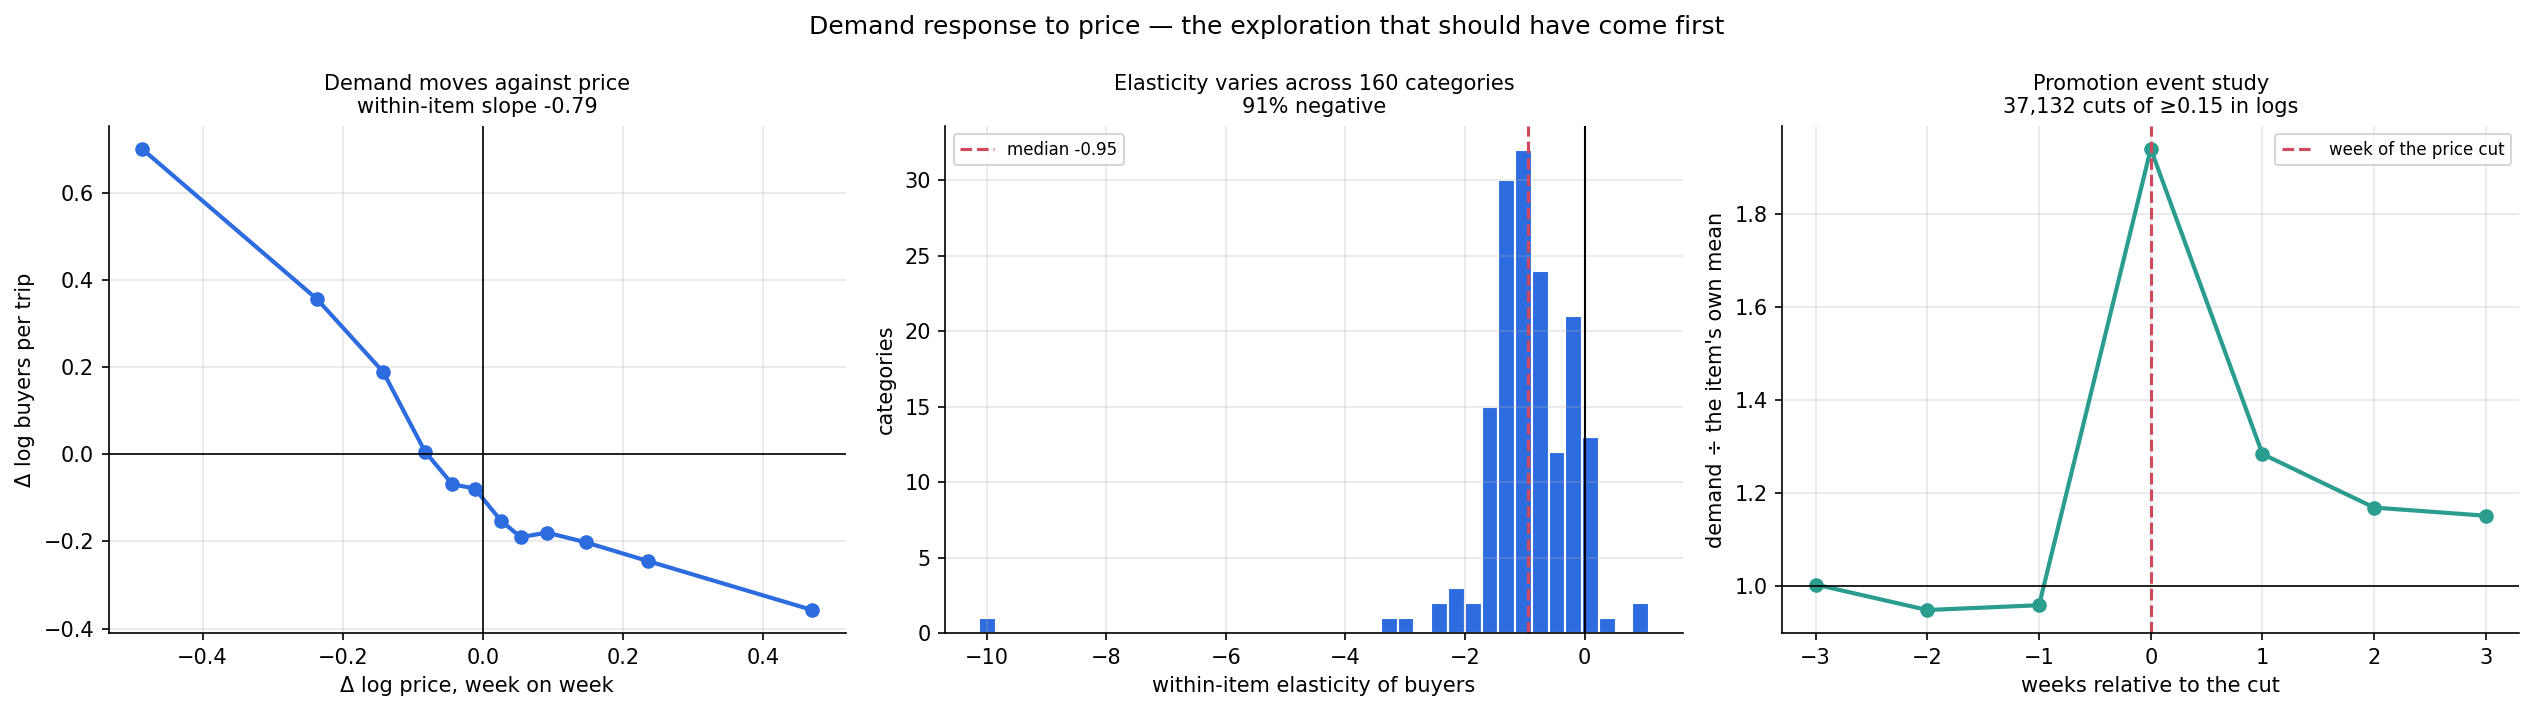
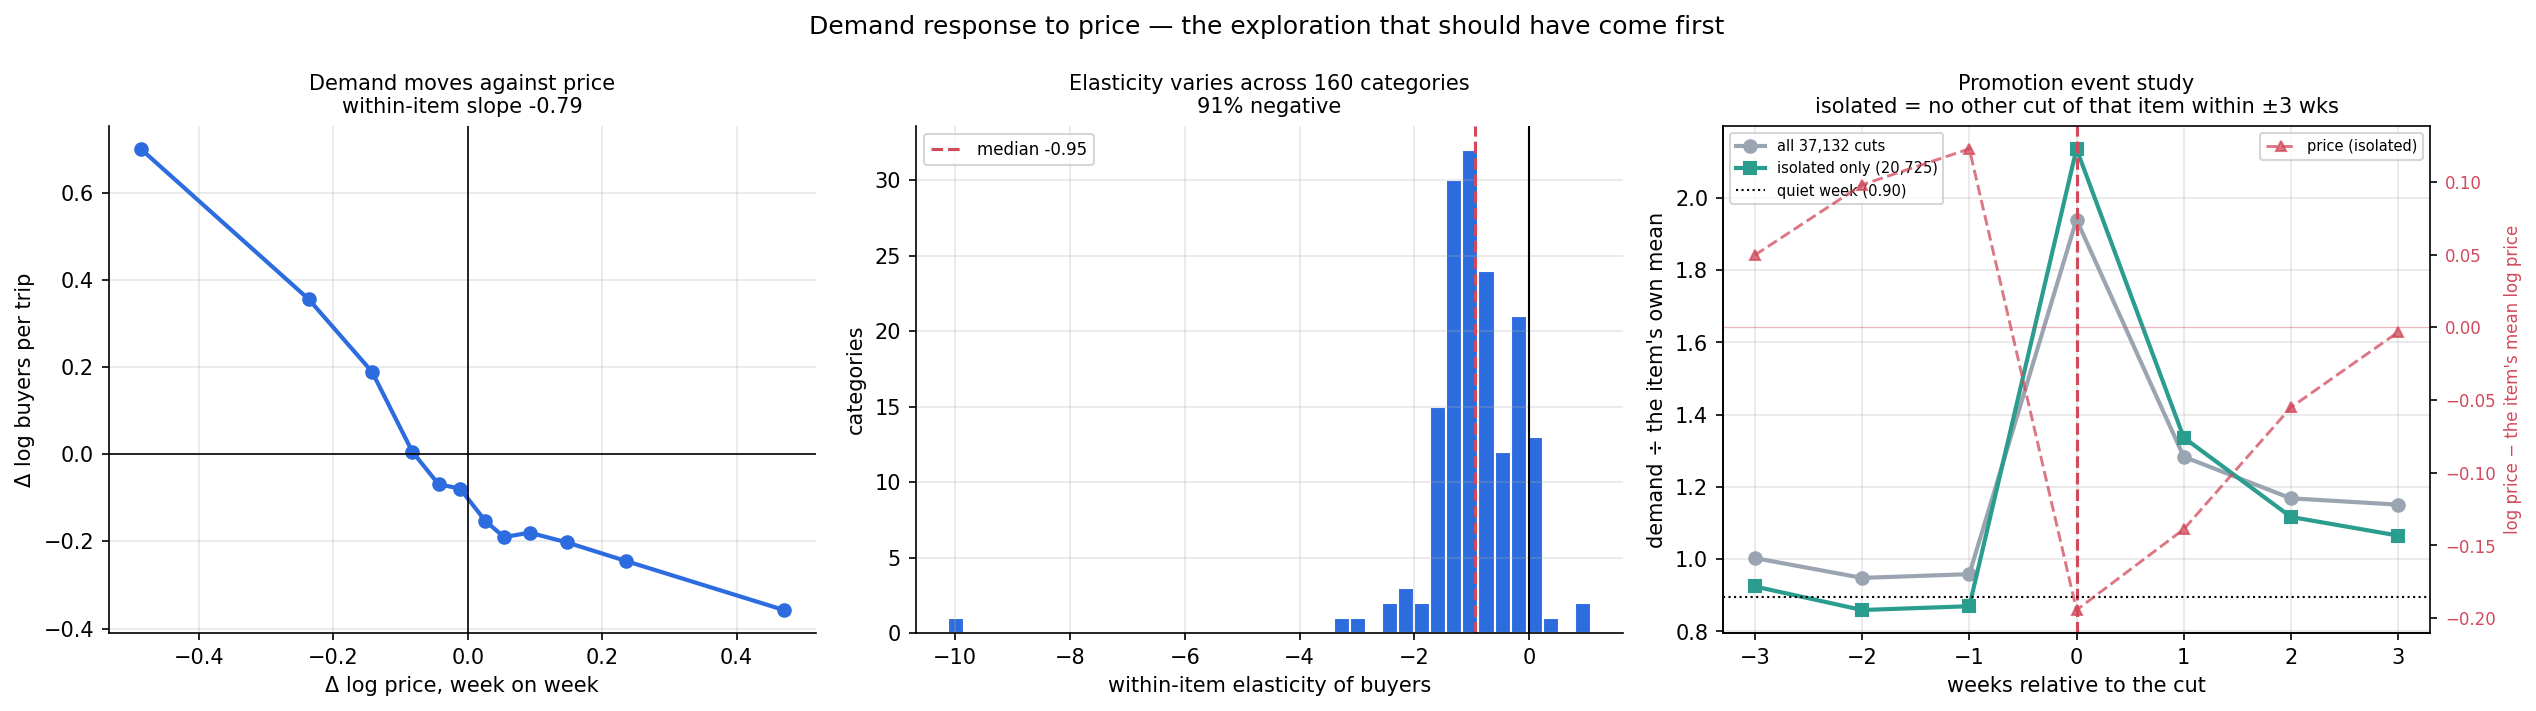
Event study: separate overlapping promotions, and measure the price path
An item is cut ~8 times on average, and 57.7% of consecutive cuts for the same
item fall less than 7 weeks apart, so their +/-3 windows overlap.  A week
labelled "-1" could already be lifted by an earlier promotion, and the decay at
+1..+3 could be the next promotion arriving rather than this one persisting.

Report two profiles: all 37,132 events, and the 20,725 isolated ones with no
other cut of that item within +/-3 weeks.  Add a quiet-week reference (368,173
item-weeks more than 3 weeks from any cut, demand 0.896 of the item mean) --
neither 1.0 nor the pre-period is a valid baseline, since norm_buy averages 1.0
over weeks that include the promotions themselves, and the pre-period is
selected to be expensive by the event definition.

Also track the price path, which settles the post-cut reading: at +1 the price
is still 0.139 below the item mean, so demand at 1.337 is an unfinished
discount, not persistence.  By +3 the price is back and demand is 1.19x quiet.
The old text read the tail as persistence and quoted 2.02x against week -1.

Breadth: fix the price variable and stop over-claiming.  The regressor was the
price of the items actually BOUGHT, which moves with the outcome; it is now the
faced price over every item in the category that week (-0.115, was -0.067).
The regression is conditioned on the category being bought and never sees
units, so it could not support the claim that breadth, incidence and depth are
[…]

diff --git a/scripts/29_demand_eda.py b/scripts/29_demand_eda.py
@@ -171,29 +171,106 @@ def main(a):
     panel = panel.sort_values(["item_id", "WEEK_NO"])
     panel["dlogp"] = panel.groupby("item_id").logp.diff()
     panel["norm_buy"] = panel.buyers / panel.groupby("item_id").buyers.transform("mean").replace(0, np.nan)
-    ev = panel[panel.dlogp <= -a.cut]
+    ev_all = panel[panel.dlogp <= -a.cut]
     idx = {(i, w): k for k, (i, w) in enumerate(zip(panel.item_id, panel.WEEK_NO))}
-    prof = {k: [] for k in range(-3, 4)}
-    arr_i = panel.item_id.to_numpy(); arr_w = panel.WEEK_NO.to_numpy()
     arr_n = panel.norm_buy.to_numpy()
-    for i, w in zip(ev.item_id.to_numpy(), ev.WEEK_NO.to_numpy()):
-        for k in prof:
+
+    # An item is typically cut many times -- 37,132 events across 4,712 items, so
+    # about 8 each -- and 57.7% of consecutive cuts for the same item fall less than
+    # 7 weeks apart.  Their +/-3 windows therefore overlap: a week labelled "-1" for
+    # one event can be the "+2" of the previous one, so the pre-period is measured on
+    # weeks already lifted by an earlier promotion and the post-period decay can be
+    # the next promotion arriving rather than this one persisting.
+    #
+    # Both profiles are reported.  "all" keeps every event; "clean" keeps only events
+    # with no other cut of the same item within +/- window weeks, which costs most of
+    # the sample but leaves an uncontaminated shape.
+    # The demand tail at +1..+3 has two readings: the promotion ended and buying
+    # persisted, or the price is simply still down.  Only the price path separates
+    # them, so it is measured on the same windows.  arr_p is logp centred on the
+    # item's own mean, so 0 = the item at its usual price and -0.20 = 20 log-points
+    # (about 18%) below it.
+    arr_p = (panel.logp - panel.groupby("item_id").logp.transform("mean")).to_numpy()
+
+    def build(ev, label, arr=None):
+        arr = arr_n if arr is None else arr
+        prof = {k: [] for k in range(-3, 4)}
+        for i, w in zip(ev.item_id.to_numpy(), ev.WEEK_NO.to_numpy()):
+            for k in prof:
+                j = idx.get((i, w + k))
+                if j is not None and np.isfinite(arr[j]):
+                    prof[k].append(arr[j])
+        pr = {k: float(np.mean(v)) for k, v in prof.items() if len(v) > 30}
+        n = {k: int(len(v)) for k, v in prof.items()}
+        pre = float(np.mean([pr[k] for k in (-3, -2, -1) if k in pr]))
+        return {"events": int(len(ev)), "profile": pr, "n_per_offset": n,
+                "pre_period_mean": pre,
+                "lift_vs_pre_period": pr.get(0, np.nan) / pre if pre else np.nan,
+                "lift_vs_week_minus_1": pr.get(0, np.nan) / pr.get(-1, np.nan)
+                if pr.get(-1) else np.nan}
+
+    # isolated events: no other cut of the same item within +/- a.window weeks
+    ev_s = ev_all.sort_values(["item_id", "WEEK_NO"])
+    gap_prev = ev_s.groupby("item_id").WEEK_NO.diff()
+    gap_next = ev_s.groupby("item_id").WEEK_NO.diff(-1).abs()
+    isolated = ((gap_prev.isna()) | (gap_prev > a.window)) & \
+               ((gap_next.isna()) | (gap_next > a.window))
+    ev_clean = ev_s[isolated]
+
+    prof_all = build(ev_all, "all")
+    prof_clean = build(ev_clean, "clean")
+    # Neither 1.0 nor the pre-period is a clean baseline.  norm_buy averages exactly
+    # 1.0 over ALL of an item's weeks, promotion weeks included, so a quiet week sits
+    # below 1.0.  And the pre-period is selected: an event requires a price DROP, so
+    # the weeks before one are mechanically at an above-average price.  The honest
+    # reference is a quiet week -- one more than `window` weeks from any cut of that
+    # item -- so it is measured directly.
+    near = np.zeros(len(panel), bool)
+    for i, w in zip(ev_all.item_id.to_numpy(), ev_all.WEEK_NO.to_numpy()):
+        for k in range(-a.window, a.window + 1):
             j = idx.get((i, w + k))
-            if j is not None and np.isfinite(arr_n[j]):
-                prof[k].append(arr_n[j])
-    profile = {k: float(np.mean(v)) for k, v in prof.items() if len(v) > 30}
-    r["promotion_event_study"] = {
-        "events": int(len(ev)), "min_log_price_cut": a.cut,
-        "profile_relative_to_item_mean": profile,
-        "lift_at_cut": profile.get(0, np.nan) / profile.get(-1, np.nan)
-        if profile.get(-1) else np.nan,
-    }
+            if j is not None:
+                near[j] = True
+    qn, qp = arr_n[~near], arr_p[~near]
+    quiet = {"weeks": int((~near).sum()),
+             "norm_buy": float(np.nanmean(qn)),
+             "price_vs_item_mean": float(np.nanmean(qp))}
+    r["promotion_event_study"] = r.get("promotion_event_study", {})
     log("")
-    log(f"3. promotion event study: {len(ev):,} price cuts of >= {a.cut} in logs")
-    log("   demand relative to the item's own mean, by week around the cut:")
-    log("     " + "  ".join(f"{k:+d}:{v:.2f}" for k, v in sorted(profile.items())))
-    if profile.get(-1):
-        log(f"   -> lift at the cut week: {profile[0] / profile[-1]:.2f}x the week before")
+    log(f"3q. quiet weeks (>{a.window} wks from any cut of that item): "
+        f"{quiet['weeks']:,} item-weeks, demand {quiet['norm_buy']:.3f} of the item "
+        f"mean, price {quiet['price_vs_item_mean']:+.3f} in logs")
+
+    prof_all["price_path_vs_item_mean"] = build(ev_all, "all", arr_p)["profile"]
+    prof_clean["price_path_vs_item_mean"] = build(ev_clean, "clean", arr_p)["profile"]
+    prof_all["quiet_week_baseline"] = prof_clean["quiet_week_baseline"] = quiet
+    for pr in (prof_all, prof_clean):
+        pr["lift_vs_quiet_week"] = pr["profile"][0] / quiet["norm_buy"]
+        pr["residual_at_plus3_vs_quiet_week"] = pr["profile"][3] / quiet["norm_buy"]
+    r["promotion_event_study"] = {
+        "min_log_price_cut": a.cut, "isolation_window_weeks": a.window,
+        "all_events": prof_all, "isolated_events": prof_clean,
+        "share_events_isolated": float(len(ev_clean) / max(len(ev_all), 1)),
+        # kept for backward compatibility with earlier references
+        "events": int(len(ev_all)),
+        "profile_relative_to_item_mean": prof_all["profile"],
+        "lift_at_cut": prof_all["lift_vs_week_minus_1"],
+    }
+    profile = prof_all["profile"]
+    ev = ev_all
+    log("")
+    log(f"3. promotion event study: {len(ev_all):,} price cuts of >= {a.cut} in logs, "
+        f"of which {len(ev_clean):,} ({len(ev_clean)/len(ev_all):.1%}) are isolated "
+        f"(no other cut of the same item within +/-{a.window} weeks)")
+    for lab, pr in [("all events    ", prof_all), ("isolated only ", prof_clean)]:
+        log(f"   {lab}: " + "  ".join(f"{k:+d}:{v:.2f}" for k, v in sorted(pr["profile"].items())))
+        log(f"   {' ' * len(lab)}  pre-period {pr['pre_period_mean']:.3f}, "
+            f"lift vs pre {pr['lift_vs_pre_period']:.2f}x")
+        log(f"   {' ' * len(lab)}  vs quiet week: peak {pr['lift_vs_quiet_week']:.2f}x, "
+            f"+3 residual {pr['residual_at_plus3_vs_quiet_week']:.2f}x")
+        log(f"   {' ' * len(lab)}  price vs item mean (logs): "
+            + "  ".join(f"{k:+d}:{v:+.3f}" for k, v in
+                        sorted(pr["price_path_vs_item_mean"].items())))
 
     # ============================================================ 4. quantity
     u = bk.units.to_numpy()
@@ -229,28 +306,56 @@ def main(a):
                          .sort_index().items()},
         "corr_breadth_units": float(cv.corr().iloc[0, 1]),
     }
-    # does a promotion widen the basket, or only deepen it?
-    cb = bkc.groupby(["BASKET_ID", "cat_id"]).agg(
-        breadth=("item_id", "size"), units=("units", "sum"),
-        lp=("item_id", "size"))
-    pr = (panel.set_index(["item_id", "WEEK_NO"]).logp
-          if "logp" in panel else None)
-    tmp = bkc.merge(panel[["item_id", "WEEK_NO", "logp"]], on=["item_id", "WEEK_NO"],
-                    how="left")
-    cw = tmp.groupby(["BASKET_ID", "cat_id"]).agg(
-        breadth=("item_id", "size"), lp=("logp", "mean"), cat=("cat_id", "first"))
-    cw = cw.dropna()
-    cw["lb"] = np.log(cw.breadth)
-    b_br, n_br = within_slope(cw, "lb", "lp", "cat")
+    # Does a promotion widen the basket, or only deepen it?
+    #
+    # Two corrections over the first version of this.  (1) The price variable was the
+    # mean price of the items the shopper actually BOUGHT, which is chosen rather than
+    # faced -- a shopper who adds a second item changes the average by choosing it.
+    # The faced price is the mean over EVERY item in the category that week.  (2) The
+    # breadth regression is conditioned on the category having been bought, so it says
+    # nothing about incidence, and units never enter it, so it says nothing about
+    # depth.  Claiming three margins from it was wrong.  All three are estimated here
+    # instead, from one (category, week) panel with one estimator and one price.
+    faced = (panel.groupby(["cat_id", "WEEK_NO"]).logp.mean()
+             .rename("lp_faced").reset_index())
+
+    cw = bkc.groupby(["BASKET_ID", "cat_id", "WEEK_NO"]).agg(
+        breadth=("item_id", "size"), units=("units", "sum")).reset_index()
+    cwf = cw.merge(faced, on=["cat_id", "WEEK_NO"])
+    cwf["lb"] = np.log(cwf.breadth)
+    b_br, n_br = within_slope(cwf, "lb", "lp_faced", "cat_id")
     r["breadth"]["elasticity_of_breadth_wrt_price"] = b_br
+    r["breadth"]["breadth_regression_visits"] = int(n_br)
+
+    # the three margins, on one panel: a category-week is kept if at least 5 baskets
+    # bought the category, so the ratios below are not one-basket artefacts
+    nbask = bkc.groupby("WEEK_NO").BASKET_ID.nunique().rename("baskets")
+    cwk = (cw.groupby(["cat_id", "WEEK_NO"])
+           .agg(visits=("BASKET_ID", "size"), units=("units", "sum"),
+                lines=("breadth", "sum")).reset_index()
+           .merge(faced, on=["cat_id", "WEEK_NO"]).merge(nbask, on="WEEK_NO"))
+    cwk = cwk[cwk.visits >= 5]
+    cwk["l_incidence"] = np.log(cwk.visits / cwk.baskets)   # P(category in a basket)
+    cwk["l_breadth"] = np.log(cwk.lines / cwk.visits)       # item lines per visit
+    cwk["l_depth"] = np.log(cwk.units / cwk.lines)          # units per line
+    margins = {}
+    for k in ("incidence", "breadth", "depth"):
+        s, n = within_slope(cwk, f"l_{k}", "lp_faced", "cat_id")
+        margins[k] = s
+    margins["category_weeks"] = int(len(cwk))
+    r["breadth"]["margins"] = margins
+
     rb2 = r["breadth"]
     log("")
     log(f"4b. breadth: {rb2['mean_distinct_items']:.3f} distinct items per purchased "
         f"category; {rb2['share_over_1']:.1%} of category visits buy more than one")
     log("    distribution: " + ", ".join(f"{k}:{v:.1%}" for k, v in
                                          rb2["distribution"].items()))
-    log(f"    breadth elasticity wrt price {b_br:+.4f} on {n_br:,} category visits "
+    log(f"    breadth elasticity wrt the FACED price {b_br:+.4f} on {n_br:,} visits "
         f"-> a promotion {'widens' if b_br < 0 else 'does not widen'} the basket")
+    log(f"    three margins on {margins['category_weeks']:,} category-weeks: "
+        f"incidence {margins['incidence']:+.4f}, breadth {margins['breadth']:+.4f}, "
+        f"depth {margins['depth']:+.4f}")
 
     # ============================================================== 5. stores
     tx = pd.read_parquet(os.path.join(DATA, "tx.parquet"),
@@ -329,12 +434,29 @@ def main(a):
     ax = axes[2]
     if profile:
         ks = sorted(profile)
-        ax.plot(ks, [profile[k] for k in ks], "o-", color=PAL["green"], lw=2)
-        ax.axvline(0, color=PAL["red"], ls="--", lw=1.5, label="week of the price cut")
-        ax.axhline(1, color="k", lw=.8)
-        style(ax, f"Promotion event study\n{len(ev):,} cuts of ≥{a.cut} in logs",
+        ax.plot(ks, [profile[k] for k in ks], "o-", color=PAL["grey"], lw=2,
+                label=f"all {len(ev_all):,} cuts")
+        kc = sorted(prof_clean["profile"])
+        ax.plot(kc, [prof_clean["profile"][k] for k in kc], "s-", color=PAL["green"],
+                lw=2, label=f"isolated only ({len(ev_clean):,})")
+        ax.axvline(0, color=PAL["red"], ls="--", lw=1.5)
+        ax.axhline(quiet["norm_buy"], color="k", lw=1, ls=":",
+                   label=f"quiet week ({quiet['norm_buy']:.2f})")
+        style(ax, "Promotion event study\nisolated = no other cut of that item within ±3 wks",
               "weeks relative to the cut", "demand ÷ the item's own mean")
-        ax.legend(fontsize=8)
+        ax.legend(fontsize=7, loc="upper left")
+        # the price path on a twin axis: it shows how much of the post-cut tail is
+        # simply the promotion still running rather than demand persisting
+        ax2 = ax.twinx()
+        pp = prof_clean["price_path_vs_item_mean"]
+        kp = sorted(pp)
+        ax2.plot(kp, [pp[k] for k in kp], "^--", color=PAL["red"], lw=1.4, ms=5,
+                 alpha=.75, label="price (isolated)")
+        ax2.axhline(0, color=PAL["red"], lw=.6, alpha=.4)
+        ax2.set_ylabel("log price − the item's mean log price", fontsize=8,
+                       color=PAL["red"])
+        ax2.tick_params(axis="y", labelcolor=PAL["red"], labelsize=8)
+        ax2.legend(fontsize=7, loc="upper right")
     fig.suptitle("Demand response to price — the exploration that should have come first",
                  fontsize=12)
     fig.tight_layout()
@@ -378,4 +500,7 @@ if __name__ == "__main__":
     p = argparse.ArgumentParser()
     p.add_argument("--cut", type=float, default=0.15,
                    help="minimum log price fall that counts as a promotion")
+    p.add_argument("--window", type=int, default=3,
+                   help="an event is 'isolated' if no other cut of the same item "
+                        "falls within this many weeks either side")
     main(p.parse_args())
